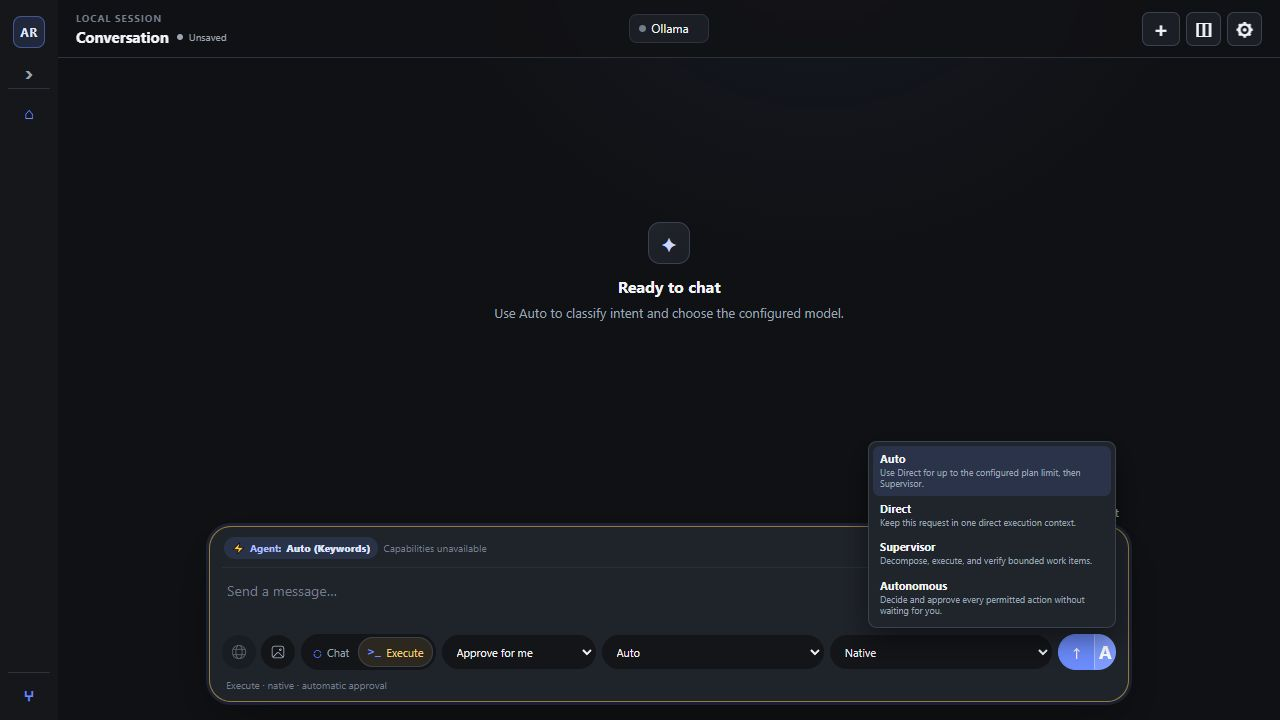
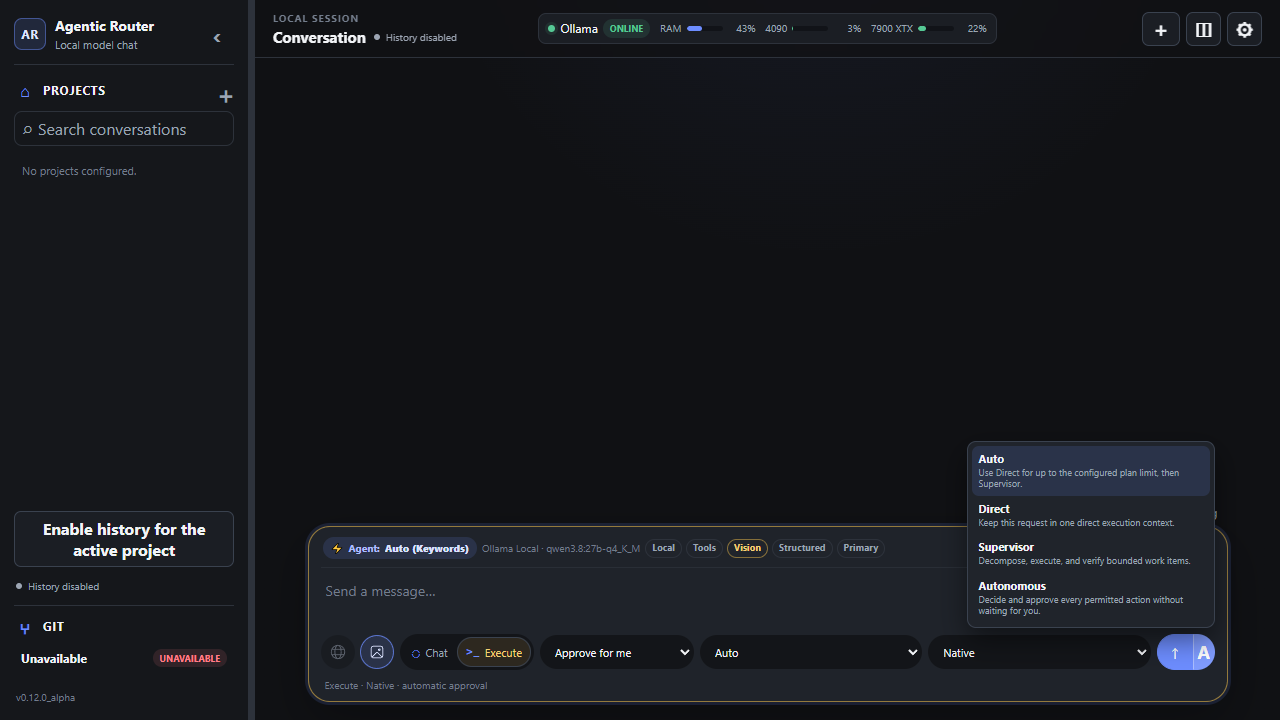
Prepare 0.12.0 alpha release

diff --git a/AgenticRouter.Api/wwwroot/index.html b/AgenticRouter.Api/wwwroot/index.html
@@ -135,7 +135,7 @@
       <output id="git-quick-status" class="inline-status sidebar-expanded-only" role="status"></output>
     </section>
 
-    <span class="app-version sidebar-expanded-only">v0.11.0_alpha</span>
+    <span class="app-version sidebar-expanded-only">v0.12.0_alpha</span>
   </aside>
 
   <div
@@ -1417,8 +1417,8 @@
                 <button
                   class="information-button"
                   type="button"
-                  aria-label="Information: history is local, optional, and not encrypted by Agentic Router v0.11.0."
-                  data-tooltip="History is local, optional, and not encrypted by Agentic Router v0.11.0."
+                  aria-label="Information: history is local, optional, and not encrypted by Agentic Router v0.12.0."
+                  data-tooltip="History is local, optional, and not encrypted by Agentic Router v0.12.0."
                 >i</button>
               </div>
             </div>
@@ -1870,8 +1870,8 @@
             <button
               class="information-button"
               type="button"
-              aria-label="Information: local history may contain conversation content, paths, diffs, and bounded command output and is not encrypted by Agentic Router v0.11.0."
-              data-tooltip="Content stays on this computer and may include prompts, responses, paths, diffs, and bounded command output. History is not encrypted by Agentic Router v0.11.0. Disabling it stops new writes but does not delete existing records."
+              aria-label="Information: local history may contain conversation content, paths, diffs, and bounded command output and is not encrypted by Agentic Router v0.12.0."
+              data-tooltip="Content stays on this computer and may include prompts, responses, paths, diffs, and bounded command output. History is not encrypted by Agentic Router v0.12.0. Disabling it stops new writes but does not delete existing records."
             >i</button>
           </div>
           <details id="local-history-section" class="workspace-accordion" open>

diff --git a/tests/AgenticRouter.EndToEndTests/ProviderAndUiEndToEndTests.cs b/tests/AgenticRouter.EndToEndTests/ProviderAndUiEndToEndTests.cs
@@ -4278,7 +4278,7 @@ baselineTotal!.Value
         ".app-version"
       )
     ).ToHaveTextAsync(
-      "v0.11.0_alpha"
+      "v0.12.0_alpha"
     );
     await Expect(
       Page.Locator(

diff --git a/distribution/README.md b/distribution/README.md
@@ -8,22 +8,24 @@ Agentic Router runs local AI conversations and supervised workspace changes thro
 
 | Version | Platform | Package | Checksum |
 | --- | --- | --- | --- |
-| `v0.11.0_alpha` | Windows x64 | [Download ZIP](https://github.com/Shakansis/agentic-router-releases/releases/download/v0.11.0_alpha/AgenticRouter-0.11.0_alpha-win-x64.zip) | [SHA-256](https://github.com/Shakansis/agentic-router-releases/releases/download/v0.11.0_alpha/AgenticRouter-0.11.0_alpha-win-x64.zip.sha256) |
-| `v0.11.0_alpha` | Linux x64 | [Download tar.gz](https://github.com/Shakansis/agentic-router-releases/releases/download/v0.11.0_alpha/AgenticRouter-0.11.0_alpha-linux-x64.tar.gz) | [SHA-256](https://github.com/Shakansis/agentic-router-releases/releases/download/v0.11.0_alpha/AgenticRouter-0.11.0_alpha-linux-x64.tar.gz.sha256) |
+| `v0.12.0_alpha` | Windows x64 | [Download ZIP](https://github.com/Shakansis/agentic-router-releases/releases/download/v0.12.0_alpha/AgenticRouter-0.12.0_alpha-win-x64.zip) | [SHA-256](https://github.com/Shakansis/agentic-router-releases/releases/download/v0.12.0_alpha/AgenticRouter-0.12.0_alpha-win-x64.zip.sha256) |
+| `v0.12.0_alpha` | Linux x64 | [Download tar.gz](https://github.com/Shakansis/agentic-router-releases/releases/download/v0.12.0_alpha/AgenticRouter-0.12.0_alpha-linux-x64.tar.gz) | [SHA-256](https://github.com/Shakansis/agentic-router-releases/releases/download/v0.12.0_alpha/AgenticRouter-0.12.0_alpha-linux-x64.tar.gz.sha256) |
 
 [View all versions and release notes](https://github.com/Shakansis/agentic-router-releases/releases).
 
-## What's new in 0.11.0_alpha
+## What's new in 0.12.0_alpha
 
-- Adds an integrated Execute strategy selector to the Send button: Auto, Direct,
-  Supervisor, or explicit Autonomous for eligible local work.
-- Makes durable supervision visible and recoverable through a Host-owned queue,
-  current-artifact verification, bounded checkpoints, restart reconciliation,
-  and browser reattachment.
-- Adds Host-owned `low`, `medium`, or `high` reasoning effort for Plan, Work,
-  Verify, Complete, and Recovery phases, with reviewed per-harness mappings.
-- Strengthens Host effect evidence, exact tool handling, approval-wait timing,
-  stale-state revalidation, and bounded trace reconstruction.
+- Adds Agentic Router-owned local Ollama servers for explicit CUDA, ROCm, and
+  opt-in combined Vulkan selections, while leaving Auto and custom endpoints
+  user-managed and never silently falling back to another backend.
+- Combines NVIDIA, AMD, and other Windows adapters in runtime telemetry and
+  distinguishes configured affinity from observed Ollama runner placement.
+- Runs CRUD, Agent Behavior, and the new Real Life Problem suite through the
+  production Execute path, with independent artifact/browser validation,
+  structured Markdown reports, and 1–20 separate sequential repetitions.
+- Adds Host-mediated interactive questions during an Execute turn, bounded
+  persistent-session compaction, shared SSE presentation, and stronger
+  cross-harness supervision, approval, diagnostic, and effect evidence.
 
 ## 1. Download and start
 
@@ -32,8 +34,8 @@ Agentic Router runs local AI conversations and supervised workspace changes thro
 3. Verify a Windows download in PowerShell:
 
    ```powershell
-   (Get-FileHash .\AgenticRouter-0.11.0_alpha-win-x64.zip -Algorithm SHA256).Hash.ToLowerInvariant()
-   Get-Content .\AgenticRouter-0.11.0_alpha-win-x64.zip.sha256
+   (Get-FileHash .\AgenticRouter-0.12.0_alpha-win-x64.zip -Algorithm SHA256).Hash.ToLowerInvariant()
+   Get-Content .\AgenticRouter-0.12.0_alpha-win-x64.zip.sha256
    ```
 
    The two hashes must match.
@@ -41,7 +43,7 @@ Agentic Router runs local AI conversations and supervised workspace changes thro
    Verify a Linux download with:
 
    ```bash
-   sha256sum -c AgenticRouter-0.11.0_alpha-linux-x64.tar.gz.sha256
+   sha256sum -c AgenticRouter-0.12.0_alpha-linux-x64.tar.gz.sha256
    ```
 
 4. Extract the archive to a writable folder. Do not run the application from inside the archive.
@@ -82,6 +84,12 @@ Agentic Router never installs GPU drivers or models silently. It reports the req
 ![First-run local setup](screenshots/01-first-run-setup.png)
 
 The same controls remain available later under **Settings → Local resources**. Installed resources display a check mark; unavailable resources retain their install action.
+
+On Windows, **Auto** keeps the configured Ollama endpoint. Explicit CUDA or
+ROCm choices use isolated Agentic Router-owned local servers, and combined
+Vulkan is an opt-in heterogeneous profile. The runtime view keeps the saved
+preference separate from the backend and GPU actually observed; external
+Ollama tray or service processes are never stopped by managed-server cleanup.
 
 ![Installed Ollama, model, and harness resources](screenshots/02-local-resources-ready.png)
 
@@ -232,7 +240,22 @@ accepted. Native Ollama, Codex, OpenCode, and Qwen Code receive reviewed native 
 translated effort controls. Claude Code through Ollama uses visible prompt guidance
 because that compatibility route exposes no reviewed effort field.
 
-## 7. Review and open the result
+## 7. Compare models and harnesses in Benchmark Lab
+
+Open **Benchmark Lab** from the sidebar to compare selected Model × Harness
+pairs. CRUD and Agent Behavior preserve their versioned scenarios; Real Life
+Problem runs a missing-game task through the same production Execute path used
+by an ordinary request and independently checks preserved files, new assets,
+browser startup, console errors, and the Host terminal result.
+
+Set **Sequential runs** from 1 to 20 when repeated samples are needed. Each
+repetition waits for the previous run to finish and remains a separate immutable
+history result with its own run ID. Reports render structured Markdown while
+canonical prompts and technical evidence remain literal text.
+
+![Benchmark Lab suites, sequential runs, and results](screenshots/12-benchmark-lab.png)
+
+## 8. Review and open the result
 
 Open the **Git** card to inspect changed files and the generated diff before committing.
 
@@ -246,7 +269,7 @@ Use **View folder** beside **Commit** and **Push** to open the current workspace
 
 ![Workspace opened in Windows Explorer](screenshots/11-view-folder.png)
 
-## 8. Stop, update, or move the portable app
+## 9. Stop, update, or move the portable app
 
 - Stop Agentic Router with `Ctrl+C` in its terminal or by closing that window.
 - Before replacing an alpha build, back up the adjacent `data` directory.

diff --git a/README.md b/README.md
@@ -2,14 +2,14 @@
 
 A **GPU-agnostic** local-first chat application that routes each user message to the most appropriate LLM through intent classification and model selection. Works with **1 to N GPUs**, CPU-only Ollama, or explicitly configured Groq, Google AI Studio, and Cerebras models.
 
-**Current Status**: v0.11.0_alpha - explicit Auto, Direct, Supervisor, and Autonomous Execute strategies, Host-owned phase effort, durable local supervision, and stronger effect/recovery evidence. Windows and Linux x64 portable releases are built from one shared core. This remains evaluation software.
+**Current Status**: v0.12.0_alpha - managed local CUDA, ROCm, and Vulkan Ollama profiles; mixed-vendor GPU telemetry; production-path Benchmark Lab scenarios and sequential runs; interactive user input; bounded session compaction; and stronger cross-harness execution evidence. Windows and Linux x64 portable releases are built from one shared core. This remains evaluation software.
 
 ## Download
 
 | Current version | Platform | Package | Checksum |
 | --- | --- | --- | --- |
-| `v0.11.0_alpha` | Windows x64 | [Download ZIP](https://github.com/Shakansis/agentic-router-releases/releases/download/v0.11.0_alpha/AgenticRouter-0.11.0_alpha-win-x64.zip) | [SHA-256](https://github.com/Shakansis/agentic-router-releases/releases/download/v0.11.0_alpha/AgenticRouter-0.11.0_alpha-win-x64.zip.sha256) |
-| `v0.11.0_alpha` | Linux x64 | [Download tar.gz](https://github.com/Shakansis/agentic-router-releases/releases/download/v0.11.0_alpha/AgenticRouter-0.11.0_alpha-linux-x64.tar.gz) | [SHA-256](https://github.com/Shakansis/agentic-router-releases/releases/download/v0.11.0_alpha/AgenticRouter-0.11.0_alpha-linux-x64.tar.gz.sha256) |
+| `v0.12.0_alpha` | Windows x64 | [Download ZIP](https://github.com/Shakansis/agentic-router-releases/releases/download/v0.12.0_alpha/AgenticRouter-0.12.0_alpha-win-x64.zip) | [SHA-256](https://github.com/Shakansis/agentic-router-releases/releases/download/v0.12.0_alpha/AgenticRouter-0.12.0_alpha-win-x64.zip.sha256) |
+| `v0.12.0_alpha` | Linux x64 | [Download tar.gz](https://github.com/Shakansis/agentic-router-releases/releases/download/v0.12.0_alpha/AgenticRouter-0.12.0_alpha-linux-x64.tar.gz) | [SHA-256](https://github.com/Shakansis/agentic-router-releases/releases/download/v0.12.0_alpha/AgenticRouter-0.12.0_alpha-linux-x64.tar.gz.sha256) |
 
 [View all versions and release notes](https://github.com/Shakansis/agentic-router-releases/releases).
 
@@ -18,7 +18,7 @@ ZIP and run `AgenticRouter.exe`. On Linux x64, extract the tar.gz and run
 `./run-agentic-router.sh` (use `chmod +x AgenticRouter run-agentic-router.sh`
 when required by the filesystem).
 
-`0.11.0_alpha` is a pre-release intended for evaluation. The package is
+`0.12.0_alpha` is a pre-release intended for evaluation. The package is
 self-contained and does not require a separate .NET installation. Ollama,
 models, and optional harnesses can be installed from the onboarding experience
 or Settings > Local resources. The initial setup screen appears before new
@@ -550,6 +550,7 @@ The application provides a clean, dark-themed interface with real-time status mo
 - **Execute Send Strategy**: In Execute, use the split Send control to select Auto, Direct, Supervisor, or Autonomous per request
 - **Projects and conversations**: Groups bounded conversation history by project, provides direct new-chat and project-edit actions, and keeps the active workspace explicit
 - **Focused project settings**: Shows profile, optional AnythingLLM Knowledge/RAG, local history, and validation settings for only the selected project
+- **Benchmark Lab**: Compares selected Model × Harness pairs through the production Execute path, preserves each sequential repetition, and renders structured recommendation reports
 - **Collapsible Activity**: Routing and inference details in expandable panels
 - **Recent Conversations**: Shows saved sessions for the active workspace and supports explicit resume
 - **Git Panel**: Shows repository overview and bounded current-session, working-tree, staged, and last-commit diffs
@@ -620,7 +621,15 @@ Press **Escape** to close the configuration dialog.
 dotnet test tests/AgenticRouter.EndToEndTests/AgenticRouter.EndToEndTests.csproj
 ```
 
-### Repeat Benchmark Lab runs
+### Benchmark Lab production scenarios and repeated runs
+
+Benchmark Lab keeps CRUD and Agent Behavior scenarios versioned and adds a Real
+Life Problem suite that exercises the same production Execute entry point used
+by an ordinary request. Its external validator checks preserved project files,
+the requested new artifacts, browser startup, missing assets, console errors,
+and the Host terminal result without introducing a benchmark-specific agent
+loop. Operational diagnostics such as tool calls, repeated actions, recovery,
+duration, and token provenance remain separate from pass/fail acceptance.
 
 The Benchmark Lab **Sequential runs** control accepts 1–20 repetitions. The
 browser starts the complete selected Model × Harness matrix again only after

diff --git a/RELEASE_NOTES.md b/RELEASE_NOTES.md
@@ -1,3 +1,74 @@
+# Agentic Router v0.12.0 alpha
+
+This alpha turns the latest execution and benchmark work into one coherent
+release: explicit local GPU choices now have Host-owned Ollama runtime
+enforcement, Benchmark Lab exercises production Execute behavior, and shared
+conversation/supervision paths retain stronger bounded evidence across every
+supported harness.
+
+## Managed Ollama and mixed-vendor GPU evidence
+
+- Adds isolated Agentic Router-owned Ollama servers for explicit CUDA, ROCm,
+  combined Vulkan, and Vulkan-with-preferred-device selections on the standard
+  local Windows endpoint. Auto and custom or remote endpoints remain
+  user-managed.
+- Verifies the requested backend before routing and fails explicitly instead of
+  silently moving an exact selection to another GPU or CPU.
+- Correlates NVIDIA SMI, DXGI, and Windows GPU performance-counter evidence so
+  NVIDIA, AMD, and other adapters can appear together without treating a saved
+  affinity as proof of observed placement.
+- Keeps managed servers isolated by endpoint, records exact leases, and cleans
+  up only processes whose PID, start time, executable, and port ownership still
+  match. External Ollama tray and service processes are not stopped.
+
+## Benchmark Lab through production Execute
+
+- Adds the independently selectable Real Life Problem v1 suite. Its missing-game
+  scenario enters through production Auto/Execute and independently verifies
+  preserved files, requested assets, browser startup, console errors, missing
+  resources, and the authoritative Host terminal result.
+- Replaces the benchmark-only native executor with a production Execute runner,
+  keeping routing, tools, approvals, recovery, workspace boundaries, and effect
+  proof on the same path used by normal work.
+- Adds 1–20 sequential repetitions without collapsing evidence: every run waits
+  for the previous terminal state and keeps its own run ID and immutable history
+  record.
+- Expands recommendations and result visualization with sanitized structural
+  Markdown while preserving canonical prompts and technical evidence as literal
+  text.
+
+## Conversation, supervision, and harness reliability
+
+- Adds a Host-mediated user-input protocol so an active Execute turn can ask a
+  bounded question, survive browser reattachment, and resume with the answer
+  without granting the browser execution authority.
+- Adds bounded persistent-session compaction tied to the effective context
+  limit, retaining visible continuity while keeping diagnostic payloads small.
+- Shares ordered SSE presentation across Chat and supervision, strengthens
+  cross-harness activity projection, exact invocation identity, approval
+  recovery, workspace observation, and terminal evidence.
+- Improves Ollama tool-call parsing and diagnostics while keeping malformed or
+  ambiguous calls typed and recoverable instead of weakening Host validation.
+
+## Validation
+
+- Passes an isolated Release solution build with zero warnings and zero errors,
+  `dotnet format`, JavaScript and PowerShell syntax checks, Markdown asset checks,
+  and intended-diff whitespace validation.
+- Passes the complete deterministic Playwright/API suite on its second full run:
+  461 passed, zero failed, and zero skipped. The first run was 460/461 because one
+  context-meter timing assertion expired under suite load; that test then passed
+  twice independently before the clean full rerun.
+- Both portable artifacts pass the package allowlist and structure validation.
+  The Windows x64 package starts in Production and returns HTTP 200 with file
+  version 0.12.0.0.
+- The Linux x64 archive was inspected, including executable modes and required
+  setup scripts. Its WSL runtime smoke was unavailable because the local WSL
+  service stopped responding even to `wsl.exe --status`; physical Linux was not
+  tested.
+- Deterministic fake-provider evidence does not prove real Ollama inference,
+  cloud-provider acceptance, managed-GPU inference, or physical-Linux hardware.
+
 # Agentic Router v0.11.0 alpha
 
 This alpha makes the Execute path explicit at send time and completes the

diff --git a/docs/PORTABLE-RELEASE.md b/docs/PORTABLE-RELEASE.md
@@ -13,24 +13,24 @@ From the repository root:
 .\scripts\Publish-PortableRelease.ps1
 ```
 
-The default command creates `0.11.0_alpha` for `win-x64` under
+The default command creates `0.12.0_alpha` for `win-x64` under
 `artifacts\releases`:
 
 - an unpacked directory for inspection;
-- `AgenticRouter-0.11.0_alpha-win-x64.zip`;
+- `AgenticRouter-0.12.0_alpha-win-x64.zip`;
 - a SHA-256 checksum file beside the ZIP.
 
 To create the Linux x64 package locally:
 
 ```powershell
 .\scripts\Publish-PortableRelease.ps1 `
-  -VersionLabel 0.11.0_alpha `
+  -VersionLabel 0.12.0_alpha `
   -RuntimeIdentifier linux-x64 `
   -OutputDirectory artifacts\releases
 ```
 
 This creates an unpacked inspection directory,
-`AgenticRouter-0.11.0_alpha-linux-x64.tar.gz`, and its matching `.sha256` file.
+`AgenticRouter-0.12.0_alpha-linux-x64.tar.gz`, and its matching `.sha256` file.
 
 The first publish for a runtime identifier may download the corresponding .NET
 runtime packs from NuGet. Later offline publishes can use `-NoRestore` after the
@@ -40,7 +40,7 @@ Optional parameters:
 
 ```powershell
 .\scripts\Publish-PortableRelease.ps1 `
-  -VersionLabel 0.11.0_alpha `
+  -VersionLabel 0.12.0_alpha `
   -RuntimeIdentifier win-x64 `
   -OutputDirectory artifacts\releases
 ```
@@ -60,14 +60,14 @@ packages first, then publish their archives and checksums in one release:
 
 ```powershell
 .\scripts\Publish-GitHubRelease.ps1 `
-  -VersionLabel 0.11.0_alpha `
+  -VersionLabel 0.12.0_alpha `
   -RuntimeIdentifier win-x64,linux-x64 `
   -ArchivePath `
-    artifacts\releases\AgenticRouter-0.11.0_alpha-win-x64.zip, `
-    artifacts\releases\AgenticRouter-0.11.0_alpha-linux-x64.tar.gz `
+    artifacts\releases\AgenticRouter-0.12.0_alpha-win-x64.zip, `
+    artifacts\releases\AgenticRouter-0.12.0_alpha-linux-x64.tar.gz `
   -ChecksumPath `
-    artifacts\releases\AgenticRouter-0.11.0_alpha-win-x64.zip.sha256, `
-    artifacts\releases\AgenticRouter-0.11.0_alpha-linux-x64.tar.gz.sha256 `
+    artifacts\releases\AgenticRouter-0.12.0_alpha-win-x64.zip.sha256, `
+    artifacts\releases\AgenticRouter-0.12.0_alpha-linux-x64.tar.gz.sha256 `
   -CreateRepository
 ```
 
@@ -83,8 +83,8 @@ The public repository is restricted by an allowlist to:
 
 - `README.md`;
 - `LICENSE.md`;
-- the eleven reviewed manual images under `screenshots/` (numbered `01`
-  through `11`).
+- the twelve reviewed manual images under `screenshots/` (numbered `01`
+  through `12`).
 
 The public `README.md` is sourced from `distribution/README.md`; the source
 repository's root README remains the developer-facing project document. To
@@ -93,7 +93,7 @@ release or its immutable assets:
 
 ```powershell
 .\scripts\Publish-GitHubRelease.ps1 `
-  -VersionLabel 0.11.0_alpha `
+  -VersionLabel 0.12.0_alpha `
   -RuntimeIdentifier win-x64,linux-x64 `
   -DocumentationOnly
 ```

diff --git a/docs/LINUX-X64.md b/docs/LINUX-X64.md
@@ -7,8 +7,8 @@ macOS, and it does not coordinate heterogeneous AMD + NVIDIA workloads.
 ## Start the portable package
 
 ```bash
-tar -xzf AgenticRouter-0.11.0_alpha-linux-x64.tar.gz
-cd AgenticRouter-0.11.0_alpha-linux-x64
+tar -xzf AgenticRouter-0.12.0_alpha-linux-x64.tar.gz
+cd AgenticRouter-0.12.0_alpha-linux-x64
 chmod +x AgenticRouter run-agentic-router.sh
 ./run-agentic-router.sh
 ```
